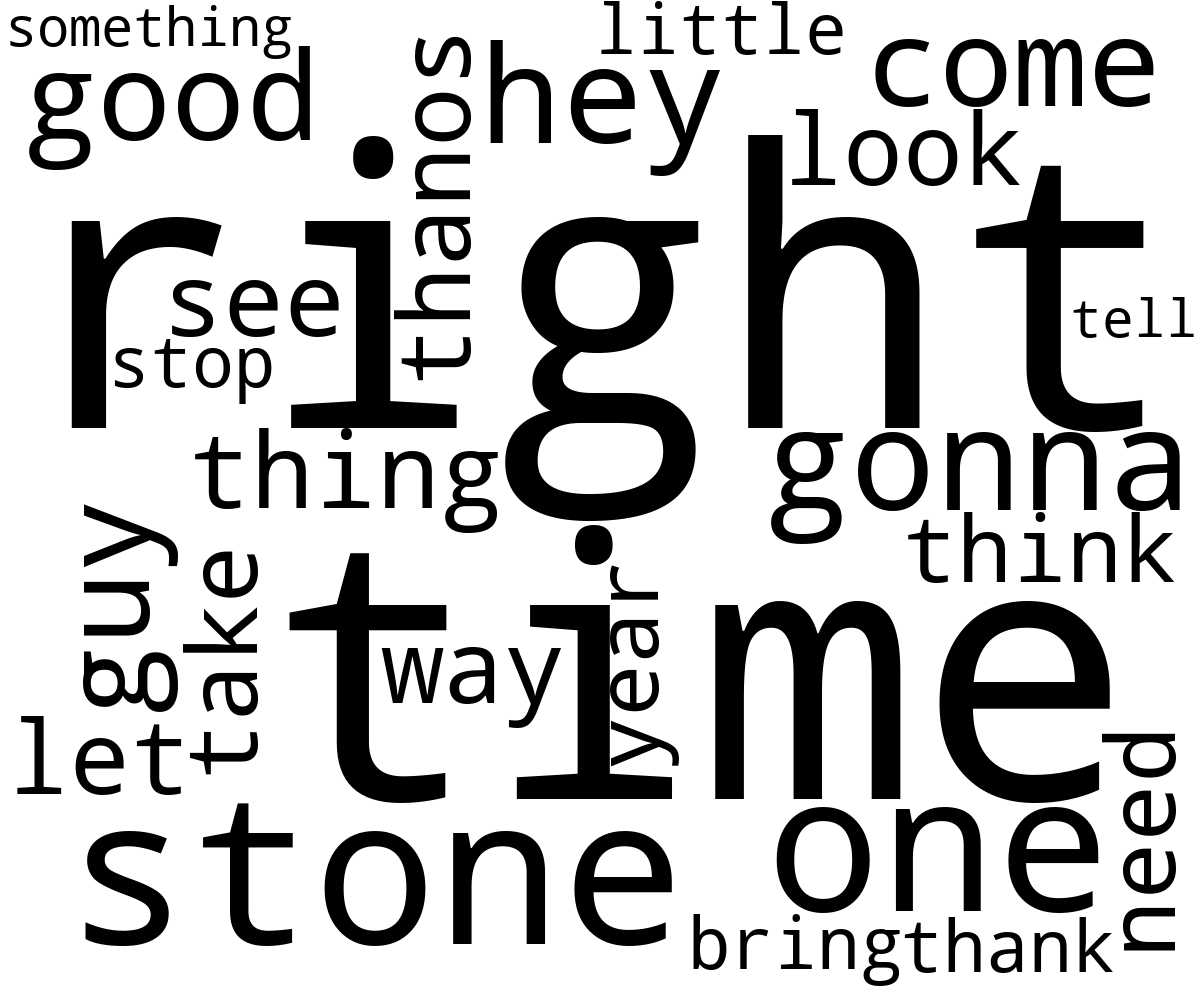
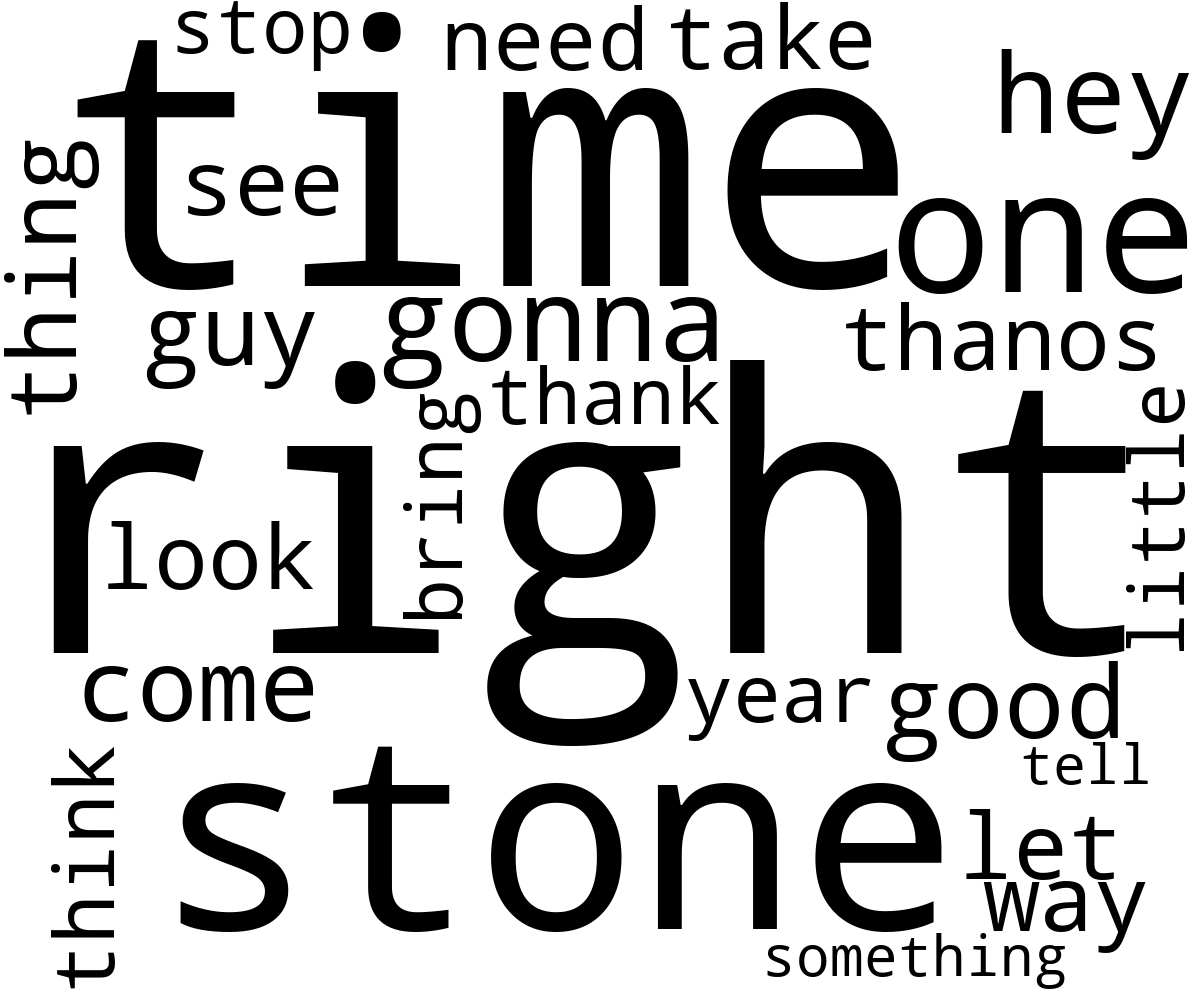
cloud outputs, now for styling

diff --git a/wordCloud/templates/wordCloud/index.html b/wordCloud/templates/wordCloud/index.html
@@ -8,3 +8,6 @@
 		<button type="submit" class="save btn btn-default">upload</button>
 </form>
 </body>
+<!-- <img src="/media/wordCloud/output.png"> -->
+{% load static %}
+<img src="{% static "wordCloud/images/output.png" %}" alt="cloud">

diff --git a/wordCloud/functions.py b/wordCloud/functions.py
@@ -79,8 +79,8 @@ def generate_word_cloud():
 	#plt.imshow(wordcloud.recolor(color_func=black_color_func, random_state=3), interpolation="bilinear")
 	#plt.axis('off')
 	#plt.show()
-	#wordcloud.to_file("./wordCloud/static/wordCloud/images/output.png")
-	wordcloud.to_file("./media/wordCloud/images/output.png")
+	wordcloud.to_file("./wordCloud/static/wordCloud/images/output.png")
+	#wordcloud.to_file("./media/wordCloud/images/output.png")
 
 def convert_to_srt(f):
 	with open("./wordCloud/static/wordCloud/uploads/subs.srt", "wb+") as output:

diff --git a/movie_cloud/urls.py b/movie_cloud/urls.py
@@ -24,4 +24,5 @@ urlpatterns = [
 ]
 
 if settings.DEBUG:
+	#urlpatterns += staticfiles_urlpatterns()
 	urlpatterns += static(settings.MEDIA_URL, document_root=settings.MEDIA_ROOT)
